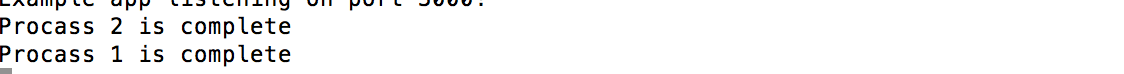
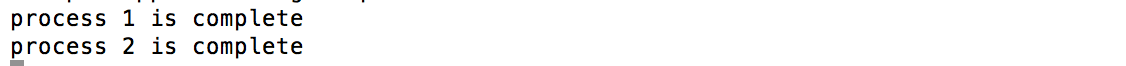
spelling changes

Changed region(s): [[0.0, 0.0, 0.4359, 0.5152], [0.0, 0.5455, 0.2802, 0.9091], [0.0, 0.9091, 0.0311, 1.0]]

diff --git a/app.js b/app.js
@@ -60,11 +60,11 @@ app.get('/cederPointJSON', function (req, res) {
 */
 
 function process1(){
-	 setTimeout(function(){ console.log("Procass 1 is complete"); }, 2000);
+	 setTimeout(function(){ console.log("process 1 is complete"); }, 2000);
 }
 
 function process2(){
-	 setTimeout(function(){ console.log("Procass 2 is complete"); }, 1000);
+	 setTimeout(function(){ console.log("process 2 is complete"); }, 1000);
 }
 
 
@@ -87,7 +87,7 @@ app.get('/getWithoutCallback', function (req, res) {
 function process1Callback(output, callback){
 	 setTimeout(function(){ 
 	 	output["process1"]="Complete";
-	 	console.log("Procass 1 is complete"); 
+	 	console.log("process 1 is complete"); 
 	 	return process2Callback(output, callback);
 	}, 2000);
 }
@@ -95,7 +95,7 @@ function process1Callback(output, callback){
 function process2Callback(output, callback){
 	 setTimeout(function(){ 
 	 	output["process2"]="Complete";
-	 	console.log("Procass 2 is complete"); 
+	 	console.log("process 2 is complete"); 
 	 	return callback(output);
 	}, 2000);
 }
